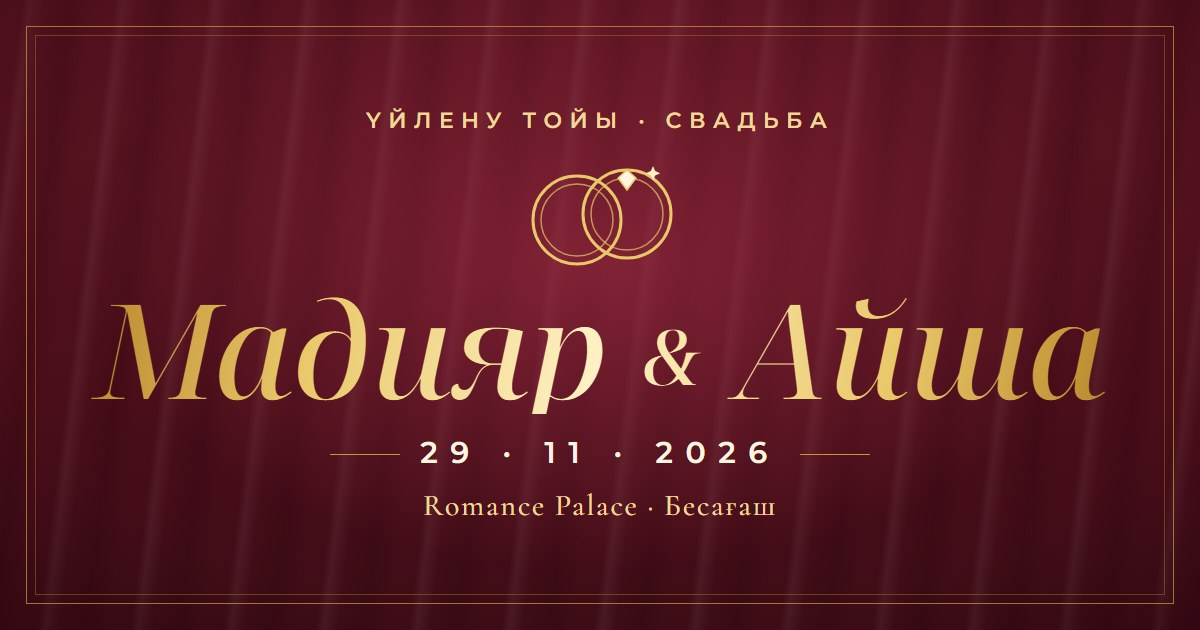
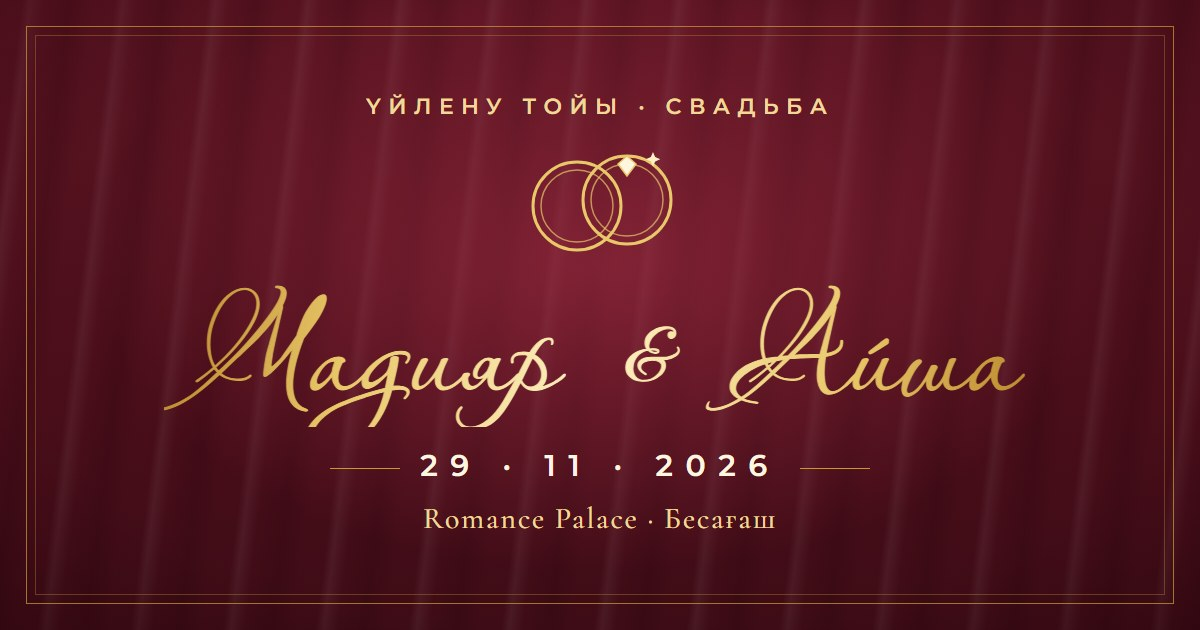
v7.5: имена пары новым шрифтом, новое превью

diff --git a/index.html b/index.html
@@ -4,7 +4,7 @@
 <meta charset="utf-8">
 <meta name="viewport" content="width=device-width, initial-scale=1, viewport-fit=cover">
 <title>Мадияр & Айша</title>
-<meta name="design-label" content="v7 Орнамент, финал (v7.4)">
+<meta name="design-label" content="v7 Орнамент, финал (v7.5)">
 <meta name="description" content="Тойға шақыру · Мадияр & Айша · 29.11.2026 · Romance Palace, Бесағаш">
 <meta name="theme-color" content="#57121F">
 <meta property="og:type" content="website">
@@ -14,7 +14,7 @@
 <meta property="og:image" content="https://madiyarzauranbek.github.io/toi/og.jpg">
 <link rel="preconnect" href="https://fonts.googleapis.com">
 <link rel="preconnect" href="https://fonts.gstatic.com" crossorigin>
-<link rel="stylesheet" href="https://fonts.googleapis.com/css2?family=Great+Vibes&family=Cormorant+Garamond:ital,wght@0,500;1,500&family=Montserrat:wght@500;600&family=Noto+Serif+Display:ital,wght@0,300;0,400;1,400&display=swap">
+<link rel="stylesheet" href="https://fonts.googleapis.com/css2?family=Cormorant+Garamond:ital,wght@0,500;1,500&family=Montserrat:wght@500;600&family=Noto+Serif+Display:ital,wght@0,300;0,400;1,400&display=swap">
 <style>
   /* ===== v6b «Тиснёный орнамент» — сборка на основе v5 «Бордо, финал» (композиция, тексты, цвета текста те же).
      Золотых линий, рамок, кантов, кромок и полос больше нет. Вместо них — казахский орнамент қошқар мүйіз
@@ -176,7 +176,6 @@
   @media (max-height:480px){
     .cv-rings{width:88px;height:65px}
     .cv-med{top:33px;width:180px;height:180px;margin:-90px 0 0 -90px}
-    .cv-name{font-size:42px}
     .cv-btns .btn{min-height:48px;padding:13px 12px}
   }
   @media (max-height:400px){
@@ -438,28 +437,35 @@
   .hosts--fin .hosts-n{color:#F3DFA6;margin-top:8px}
   .credit{margin-top:38px}
 
-  /* v7.4: имена пары и той иелері — перьевая каллиграфия Great Vibes (у шрифта нет казахских букв, поэтому имена стоят
-     в именительном падеже: «…Айша екеуінің үйлену тойына…»). Заглавная «А» в «Айша» и «Асхат» — из Miama Nueva
-     (OFL 1.1, © Linus Romer): у Great Vibes заглавная А выглядит как увеличенная строчная «а» (замечание жениха), у Miama —
-     настоящая остроконечная А с перекладиной и тем же нажимом пера. Шрифт вшит base64-сабсетом woff2 (2,7 КБ, ТОЛЬКО буква «А»;
-     внутреннее имя сабсета изменено по OFL §3 — Reserved Font Name), подменяется ТОЛЬКО первая буква через ::first-letter — base.js заполняет [data-cfg] через
-     textContent, вложенные span затёрлись бы. «Мадияр» целиком Great Vibes (его М — настоящая заглавная).
-     Если woff2 не поддерживается, остаётся А Great Vibes. Фольга (background-clip:text) покрывает и буквицу. */
[1 lines of base64/hex data omitted]
-  .nm,.cv-name,.hosts-n,.cv-amp{font-family:'Great Vibes','Cormorant Garamond',Georgia,serif;font-style:normal;font-weight:400;letter-spacing:0}
-  .nm{font-size:74px;font-size:clamp(68px,22vw,104px);line-height:1.02;padding:.08em .14em .16em}
-  .cv-name{font-size:80px;font-size:clamp(70px,23vw,108px);line-height:1;padding:.06em .14em .18em}
-  .cv-amp{font-size:40px;font-size:clamp(36px,11vw,52px)}
-  @media (max-height:700px){.cv-name{font-size:66px}.cv-amp{font-size:32px}}
-  @media (max-height:600px){.cv-name{font-size:56px}.cv-amp{font-size:27px}}
-  @media (max-height:400px){.cv-name{font-size:46px;line-height:.98}.cv-amp{font-size:22px}}
-  .hosts-n{display:block;font-size:40px;font-size:clamp(38px,12vw,52px);line-height:1.1;padding:.04em .14em .14em}
-  /* буквица: .89em — высота А Miama (0.902em) становится равной высоте заглавной М Great Vibes (0.80em);
-     line-height:.8 — строка не растёт, базовая линия общая; margin-right .12em — зазор по чернилам между А и «й»
-     ~8px при 96px, как между буквами связного письма Great Vibes (ножка А касается входного штриха «й») */
-  .cv-name[data-cfg="bride"]::first-letter,.nm[data-cfg="bride"]::first-letter,.hosts-n::first-letter{font-family:'Miama Nueva','Great Vibes','Cormorant Garamond',Georgia,serif;font-style:normal;font-weight:400;font-size:.89em;line-height:.8;letter-spacing:0;margin-right:.12em}
-  /* в «Асхат» за буквицей идёт «с» без входного штриха (у «й» в «Айша» он есть) — без отступа, иначе читается «А схат» */
-  .hosts-n::first-letter{margin-right:0}
+  /* v7.5 (25.10.2026, правка жениха): имена пары — пышная перьевая каллиграфия по присланным референсам;
+     шрифт той иелері не меняется.
+     Имена пары (.cv-name на обложке, .nm в листе, .cv-amp) — Passions Conflict RUS: спенсерианский перьевой копперплейт
+     с петлевыми заглавными и росчерками, как на присланных референсах; заглавная «А» — настоящая (петля + росчерк, не увеличенная
+     строчная), у шрифта свой амперсанд. Латиница — Passions Conflict, © 2004 The Hurricane Project Authors, автор Robert E. Leuschke
+     (TypeSETit, github.com/googlefonts/passions-conflict); кириллическое расширение «RUS» v1.002 (2024, автор расширения в файле
+     не указан). Лицензия SIL OFL 1.1 (LICENSE.txt + COPYRIGHT.txt рядом с файлом: fontlab/ext2/passions-conflict-rus/) —
+     встраивание и коммерческое использование разрешены, personal_only: нет. Вшит base64-сабсетом ТОЛЬКО из глифов
+     «М а д и я р А й ш а & пробел» (woff2 3,1 КБ; woff 3,8 КБ — запасной формат для старых браузеров без woff2);
+     внутреннее имя сабсета изменено («PCRUS Toi Names») по OFL §3, имя семейства в CSS оставлено. Казахских букв в сабсете
+     нет — шрифт ТОЛЬКО для имён пары. Если шрифт не загрузился, остаётся Cormorant Garamond.
+     Очко строчных у шрифта мелкое (0.17em), поэтому кегль ×1.4 от v7.4 при уплотнённой строке (line-height .8/.85);
+     волосяные линии утолщены прозрачной обводкой -webkit-text-stroke .8px: фольга (background-clip:text) заливает и обводку,
+     контур становится на ~0.8px толще без видимых внутренних линий (проверено на стенде; обводка цветом давала двойные контуры
+     из-за наложений в глифах). Росчерки М/А выходят влево за начало строки (−0.14em), «д»/«р» — вниз (−0.33em) — запас даёт
+     padding, у контейнеров overflow visible, обрезки нет. Амперсанд — свой у шрифта (0.47em высотой), поэтому .cv-amp крупнее
+     и с отрицательными полями в em: глиф центрируется между именами; в ландшафте (max-height 400px) амперсанд 42px, иначе
+     при 34px он становился закорючкой размером с запятую. Ступени кегля имён на низких экранах — только три правила @media
+     ниже (700/600/400); старая ступень .cv-name в @media (max-height:480px) удалена как мёртвая (перекрывалась правилом 600).
+     Той иелері «Асхат & Гульнара» возвращены к утверждённому виду v7.1: Noto Serif Display italic (.disp), размер — правило
+     .hosts-n выше (clamp 27–36px); никаких собственных шрифтовых правил у .hosts-n больше нет. */
[1 lines of base64/hex data omitted]
+  .nm,.cv-name,.cv-amp{font-family:'Passions Conflict RUS','Cormorant Garamond',Georgia,serif;font-style:normal;font-weight:400;letter-spacing:0;-webkit-text-stroke:.8px transparent}
+  .cv-name{font-size:106px;font-size:clamp(102px,33vw,150px);line-height:.8;padding:.1em .16em .24em}
+  .cv-amp{font-size:60px;font-size:clamp(56px,17vw,78px);line-height:1;margin:-.22em 0 -.14em}
+  .nm{font-size:102px;font-size:clamp(98px,32vw,146px);line-height:.85;padding:.1em .16em .24em}
+  @media (max-height:700px){.cv-name{font-size:92px}.cv-amp{font-size:50px}}
+  @media (max-height:600px){.cv-name{font-size:78px}.cv-amp{font-size:42px}}
+  @media (max-height:400px){.cv-name{font-size:64px;line-height:.8}.cv-amp{font-size:42px}}
 </style>
 </head>
 <body class="locked" ontouchstart="">
